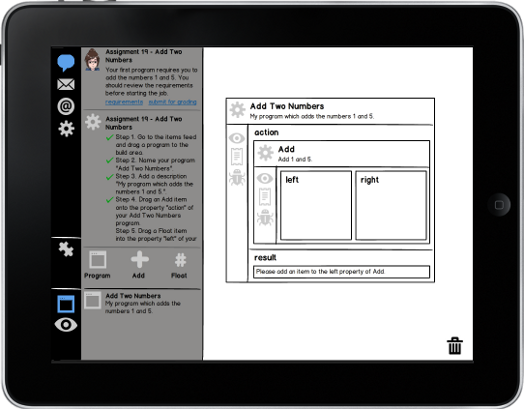
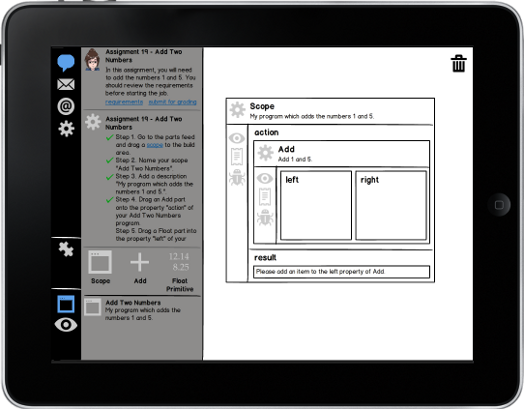
Added parts image and fixed school of programming mockup

diff --git a/_site/index.html b/_site/index.html
@@ -158,13 +158,13 @@
 </div><div class='huge-divider pagination-centered'>
   <h1>HOW WE DO THE IMPOSSIBLE</h1>
 </div><div class='featurette cursor-pointer'>
-  <a class='cursor-pointer' onclick='$(&apos;#image-to-show&apos;).attr(&apos;src&apos;,&apos;../assets/img/iPadMockupVision1084x847.png&apos;);$(&apos;#image-popup&apos;).modal({ keyboard: true, show: true, backdrop: true});'>
-    <img class='featurette-image pull-right popup-image' src='../assets/img/iPadMockupVision524x409.png' /><img />
+  <a class='cursor-pointer' onclick='$(&apos;#image-to-show&apos;).attr(&apos;src&apos;,&apos;../assets/img/iPadMockupParts1084x847.png&apos;);$(&apos;#image-popup&apos;).modal({ keyboard: true, show: true, backdrop: true});'>
+    <img class='featurette-image pull-right popup-image' src='../assets/img/iPadMockupParts524x409.png' /><img />
   </a>
   <h2 class='featurette-heading'>Step 1. <span class='muted'>We Code The Parts</span></h2>
   <p class='lead'>We code hundreds of non-business specific software parts.</p>
   <p class='lead'>We have low level software parts that support very simple tasks like adding two numbers.</p>
-  <p class='lead'>We have high level software parts that support very complex tasks like communicating across the internet.</p>
+  <p class='lead'>We have high level software parts and templates that support very complex tasks like communicating across the internet.</p>
   <p class='lead'>We hope you can stick with the high level parts: getting your software out the door as soon as possible. However, you can use the low level parts if your business has very unique requirements.</p>
 </div><hr class='featurette-divider' /><div class='featurette cursor-pointer'>
   <a class='cursor-pointer' onclick='$(&apos;#image-to-show&apos;).attr(&apos;src&apos;,&apos;../assets/img/iPadMockupVision1084x847.png&apos;);$(&apos;#image-popup&apos;).modal({ keyboard: true, show: true, backdrop: true});'>

diff --git a/index.md b/index.md
@@ -84,13 +84,13 @@ tagline: Programming Without Coding
 </div>  
 
 <div class="featurette cursor-pointer">
-  <a class="cursor-pointer" onclick="$('#image-to-show').attr('src','../assets/img/iPadMockupVision1084x847.png');$('#image-popup').modal({ keyboard: true, show: true, backdrop: true});">
-    <img class="featurette-image pull-right popup-image" src="../assets/img/iPadMockupVision524x409.png"></img>
+  <a class="cursor-pointer" onclick="$('#image-to-show').attr('src','../assets/img/iPadMockupParts1084x847.png');$('#image-popup').modal({ keyboard: true, show: true, backdrop: true});">
+    <img class="featurette-image pull-right popup-image" src="../assets/img/iPadMockupParts524x409.png"></img>
   </a>
   <h2 class="featurette-heading">Step 1. <span class="muted">We Code The Parts</span></h2>
   <p class="lead">We code hundreds of non-business specific software parts.</p>
   <p class="lead">We have low level software parts that support very simple tasks like adding two numbers.</p>
-  <p class="lead">We have high level software parts that support very complex tasks like communicating across the internet.</p>
+  <p class="lead">We have high level software parts and templates that support very complex tasks like communicating across the internet.</p>
   <p class="lead">We hope you can stick with the high level parts: getting your software out the door as soon as possible. However, you can use the low level parts if your business has very unique requirements.</p>
 </div>
 
